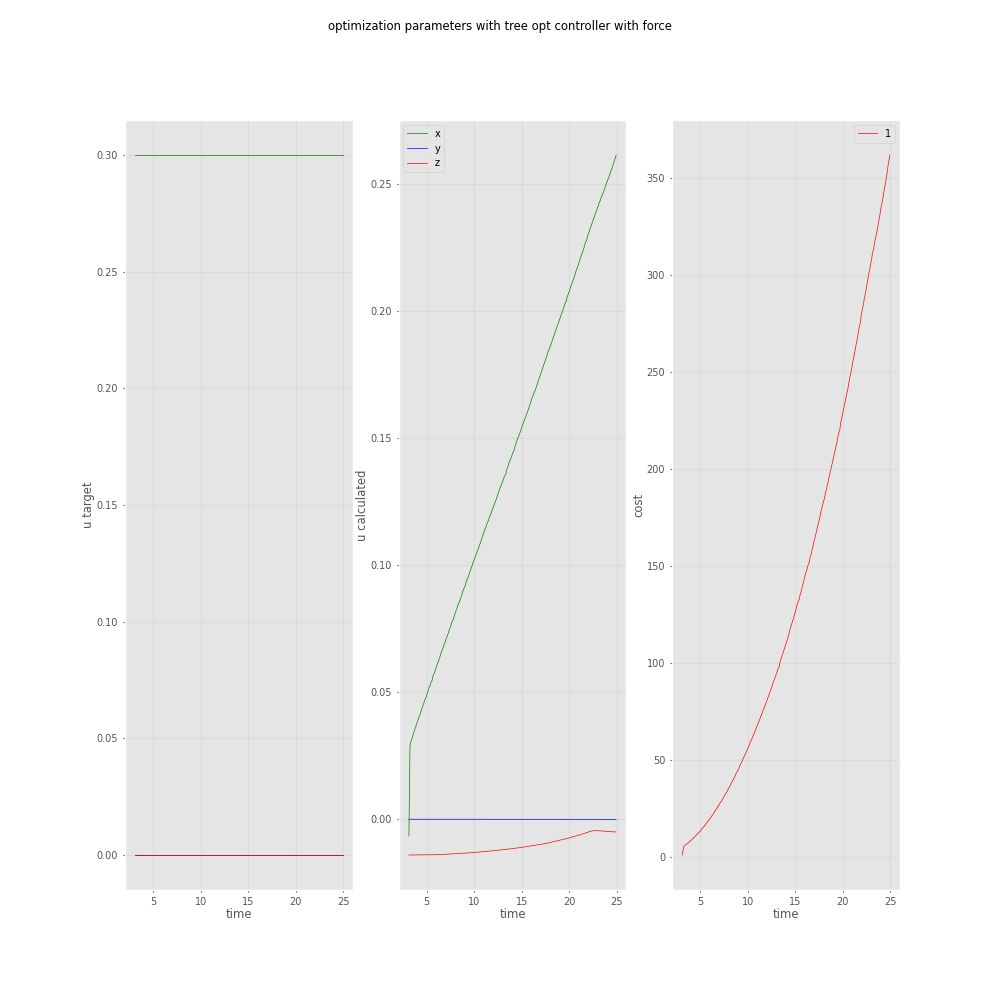
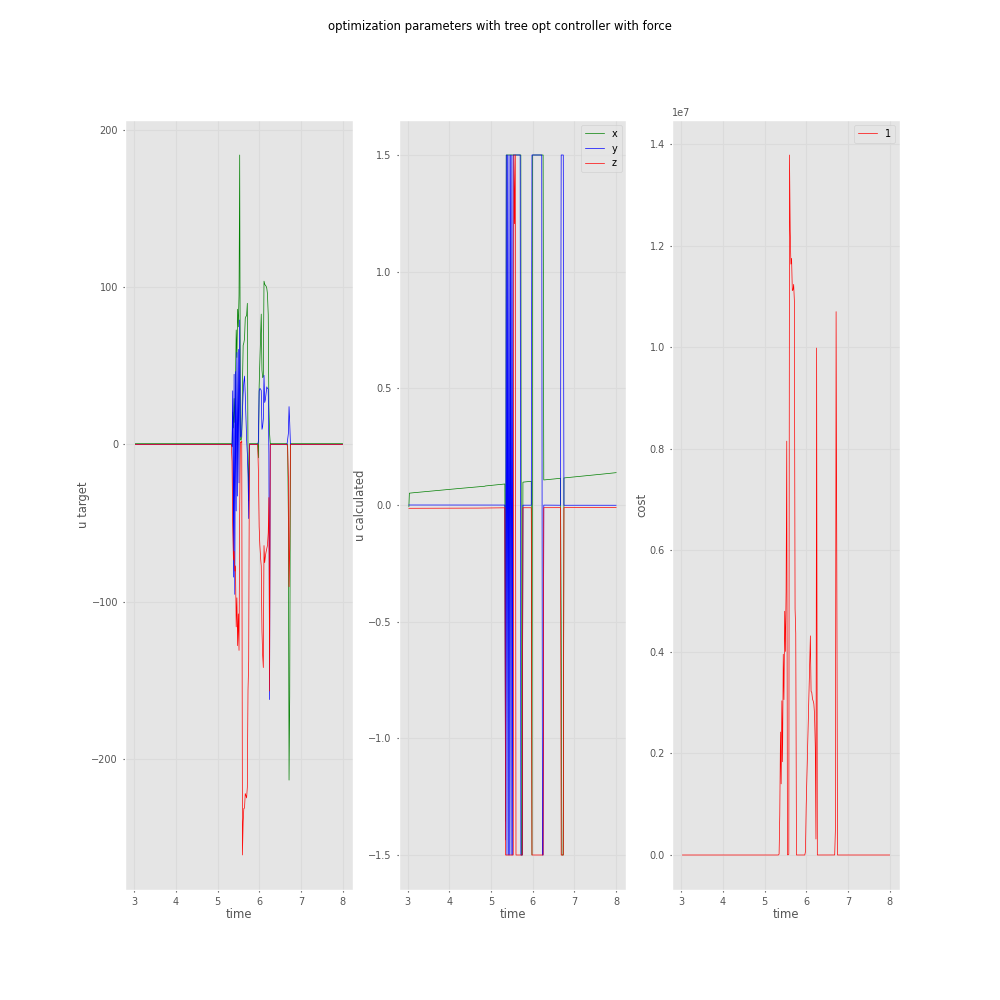
fixed somw stuff

diff --git a/mpc_controller.py b/mpc_controller.py
@@ -18,78 +18,51 @@ class MPC:
         self.opt_ctrl = ControlPerformance("opt_ctrl")
         time.sleep(1)
         print("Start controller")
-
+        self.Ax, self.Bx, self.Af, self.Bf = np.eye(3), np.eye(3), np.eye(3), np.eye(3)
+        self.R = np.eye(self.n)
+        self.P = np.eye(3)*2
+        self.F = np.eye(3)*100
+        self.G = np.eye(3)*1
+        self.P = self.P.T @ self.P
+        self.G = self.G.T @self.G
+    
 
     def initialize_storage(self):
-        self.arrived = False
-        self.robo_x, self.robo_y, self.robo_z = [], [], []
-        self.robo_fx, self.robo_fy, self.robo_fz = [], [], []
-        self.time_, self.robot_q, self.robot_dq = [], [], []
-        self.robot_ctl, self.mpc_ctl, self.mpc_cost_Q = [], [], []
-        self.mpc_cost_c, self.mpc_cost_Aeq, self.mpc_cost_Beq = [], [], []
-        self.mpc_cost_Ain, self.mpc_cost_Bin, self.MPC_obj = [], [], []
-        self.wrench_sample = np.zeros((5, 6))
-        self.A = np.zeros((self.n * 2, self.n * 2))
-        self.robot_err_x, self.robot_err_y, self.robot_err_z = [], [], []
-        self.act, self.T, self.wrench_jac = [], [], []
-        self.v, self.sensor_v, self.joint_vel_opt, self.joint_pos = [], [], [], []
-        self.joint_tor_sensor, self.rtb_torque,  self.time, self.wrench, self.ee_pos_ =[],  [], [], [], []
-        self.calculated_u, self.cost, self.target_u = [], [], []
-        self.u = 0
-
-    def get_next_torque(self, wrench, robot, target_pos, target_vel):
-
-        # M = robot.get_M_()
-    
-        # J = robot.get_jacobian()
-        A, B = np.zeros((3,3)), np.zeros((3,3))
-        Af, Bf = np.zeros((3,3)), np.zeros((3,3))
-        A, B = np.eye(3), np.eye(3)
-
-        Af, Bf = np.eye(3), np.eye(3)
+        self.joint_curr_pos, self.joint_curr_vel, self.joint_curr_acc, self.joint_curr_torque = [], [], [], []
+        self.joint_des_pos, self.joint_des_vel, self.joint_des_acc, self.joint_des_torque = [], [], [], []
+        self.ee_curr_pos, self.ee_curr_vel, self.ee_curr_acc, self.ee_curr_force = [], [], [], []
+        self.ee_des_pos, self.ee_des_vel, self.ee_des_acc, self.ee_des_force = [], [], [], []
+        self.opt_error_x, self.opt_ref_x, self.opt_x, = [], [], []
+        self.opt_error_f, self.opt_ref_f, self.opt_f, = [], [], []
+        self.opt_u , self.opt_cost = [], []
+        self.sensor_acc, self.sensor_vel, self.sensor_wrench, self.sensor_jointTor = [], [], [], []
+        
 
 
-        target_vel = target_vel + wrench # mass and dt is 1
+    def get_optimal_vel(self, wrench, robot, target_pos, target_vel):
 
-        f_ref = wrench[0:3]
+        f_ref = wrench
         x_ref = target_pos 
-        T = 2
-        x = cp.Variable((3,T+1))
-        f = cp.Variable((3,T+1))
-        u = cp.Variable((3,T)) # u is joint velocity
+        self.T_opt = 2
+        x = cp.Variable((3,self.T_opt+1))
+        f = cp.Variable((3,self.T_opt+1))
+        u = cp.Variable((3,self.T_opt)) # u is joint velocity
         cost = 0
-        constr = []
-        R = np.eye(7)
-        # P = np.eye(14)
-        # q = np.zeros(14)
+        constr = []   
         x0 = robot.get_ee_position()
-
-        # q[7:14] = -np.dot(J.T, wrench)
-        P = np.eye(3)*2
-        F = np.eye(3)*100
-        G = np.eye(3)*1
-        P = P.T @ P
-        G = G.T @G
-  
-        for t in range(T):
-            cost += cp.quad_form(x[:, t + 1] -x_ref, P) + cp.quad_form(f[:, t + 1] -f_ref, F) + cp.quad_form(u[:, t] , G)
-            constr += [x[:, t + 1] == np.dot(A, x0 )+ B @ (u[:, t])]
-            constr += [f[:, t + 1] == Bf @ (u[:, t])]
+        for t in range(self.T_opt):
+            cost += cp.quad_form(x[:, t + 1] -x_ref, self.P) + cp.quad_form(f[:, t + 1] -f_ref, self.F) + cp.quad_form(u[:, t] , self.G)
+            constr += [x[:, t + 1] == np.dot(self.Ax, x0 )+ self.Bx @ (u[:, t])]
+            constr += [f[:, t + 1] == self.Bf @ (u[:, t])]
             constr += [u[:,t] <= np.ones(3)*(1.5)]
             constr += [u[:,t] >= np.ones(3)*(-1.5)]
         problem = cp.Problem(cp.Minimize(cost), constr)
         problem.solve()
-        self.target_u.append(target_vel)
-        self.calculated_u.append(u[:,0].value)
-        self.cost.append(problem.value)
-        force_cost = np.matmul((f[:, 0].value -f_ref).T,np.matmul(F, f[:, 0].value -f_ref) )
-        pos_cost = np.matmul((x[:, 0].value -x_ref).T,np.matmul(P, x[:, 0].value -x_ref) )
-        print(force_cost, pos_cost)
+        self.opt_u.append(u[:,0].value)
+        self.opt_cost.append(problem.value)
+        force_cost = np.matmul((f[:, 0].value -f_ref).T,np.matmul(self.F, f[:, 0].value -f_ref) )
+        pos_cost = np.matmul((x[:, 0].value -x_ref).T,np.matmul(self.P, x[:, 0].value -x_ref) )
         return u[:,0].value 
-
-    def update_wrench_sample(self, wrench):
-        self.wrench_sample = np.roll(self.wrench_sample, shift=-1, axis=0)
-        self.wrench_sample[-1] = wrench
 
 
     def update_debug_values(self, J, wrench, Torque, robot):
@@ -107,9 +80,6 @@ class MPC:
         self.joint_vel_opt.append(self.u)
         self.joint_pos.append(robot.get_joint_positions())
 
-    def joint_velocity_damper(self, robot):
-        ps, pi = 0.05, 0.9
-        return robot.robot.joint_velocity_damper(ps, pi, self.n)
 
     def execute_control(self, dq_d, robot, target_position, target_vel, q, dq):
         if dq_d is None:
@@ -146,36 +116,19 @@ class MPC:
     def resolve_rate_controller(self, robot, desired_ee_vel, robot_ee_pose):
         J = robot.get_jacobian()
         pnv_j = np.linalg.pinv(J)
-
-        # target_vel = target
+        next_ee_vel = np.zeros(6)
         desired_ee_vel = np.asarray(desired_ee_vel)[0:3]
         desired_ee_position = robot_ee_pose[3, 0:3] + desired_ee_vel *robot.curr_time
-        # q_k = robot.get_joint_positions()
-        # dq_k = np.matmul(pnv_j, target_vel)
-
-        # dt = 1
         wrench = robot.get_ee_wrench()
-        # target_pos = q_k  +dq_k *dt
-        next_ee_vel = np.zeros(6)
-        next_ee_vel[0:3] = self.get_next_torque(wrench[0:3], robot, desired_ee_position, desired_ee_vel)
+        next_ee_vel[0:3] = self.get_optimal_vel(wrench[0:3], robot, desired_ee_position, desired_ee_vel)
         q_curr = robot.get_joint_positions()
         dq_next = np.matmul(pnv_j, next_ee_vel)
-        # dq_k =  dq_ext
         self.target_pos = (q_curr+ dq_next)
         curr_end_eff_position = robot.get_ee_position()
         robot.run(self.target_pos)
         self.u = self.target_pos
         if curr_end_eff_position[0]>robot.ee_max_reach:
             robot.stop_robot = True
-
-        # self.update_plot_values(robot, err)
-        
-    
-        Torque, j_T = robot.get_joint_torque_mujoco()
-        self.prev_time = robot.curr_time
-        self.update_debug_values(J, wrench, Torque, robot)
-        # print(self.get_next_torque(wrench, robot), self.target_pos)
-    
 
 if __name__ == '__main__':
     print("Testing MPC setup")

diff --git a/robot.py b/robot.py
@@ -99,7 +99,10 @@ class RoboEnv(MuJoCoBase):
         return np.dot(ft_ori_mat, self.data.sensordata[27:30])
 
     def get_ee_position(self):
+        ft_ori_mat = self.data.site_xmat[self.eef_site_id].reshape(3, 3)
         return self.data.site_xpos[self.eef_site_id]
+        # id = mujoco.mj_name2id(self.model, mujoco.mjtObj.mjOBJ_GEOM,"link7")
+        # return self.data.geom_xpos[id]
 
     def get_ee_oriet(self):
         return self.data.site_xmat[self.eef_site_id]
@@ -227,12 +230,12 @@ class RoboEnv(MuJoCoBase):
         glfw.poll_events()
 
     def run(self, control_input):
-        if self.stop_robot == False:
-            self.data.ctrl[0:7] = control_input
-            mujoco.mj_step(self.model, self.data)
-            mujoco.mj_rnePostConstraint(self.model, self.data)
-        else:
-            print("robot stopped")
+        # if self.stop_robot == False:
+        self.data.ctrl[0:7] = control_input
+        mujoco.mj_step(self.model, self.data)
+        mujoco.mj_rnePostConstraint(self.model, self.data)
+        # else:
+        #     print("robot stopped")
 
 
         self.curr_time = time.time() - self.start_time

diff --git a/run_controller.py b/run_controller.py
@@ -118,9 +118,9 @@ if __name__ == '__main__':
     start_time = time.time()
     np.random.seed(42)
     target_pose = np.random.uniform(-np.pi/2, np.pi/2, size=7)
-    target_vel = [0.3, 0., 0., 0, 0, 0.]
+    target_vel = [0.5, 0., 0., 0, 0, 0.]
     ee_position = robot.get_ee_position()
-    print("position", ee_position)
+    # print("position", ee_position)
     target_position = [ee_position[0] + .3, ee_position[1], ee_position[2]]
     __, _, robot_ee_ini_pose = robot.get_ee_pose()
     for i in range(0, dT):
